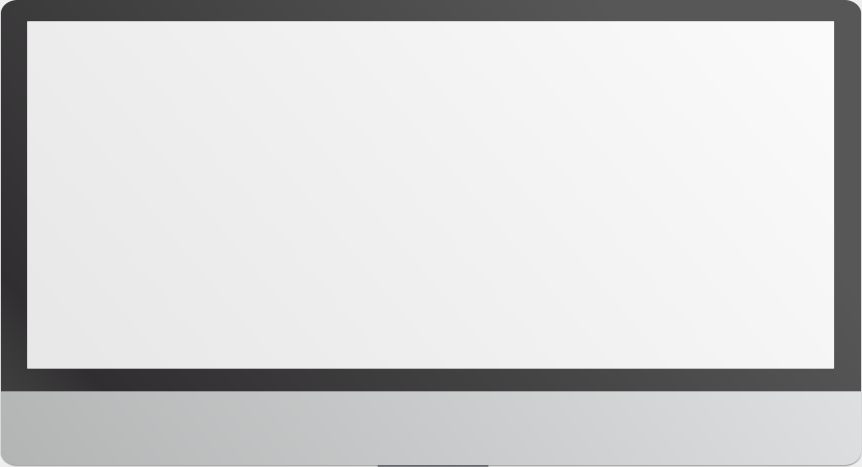
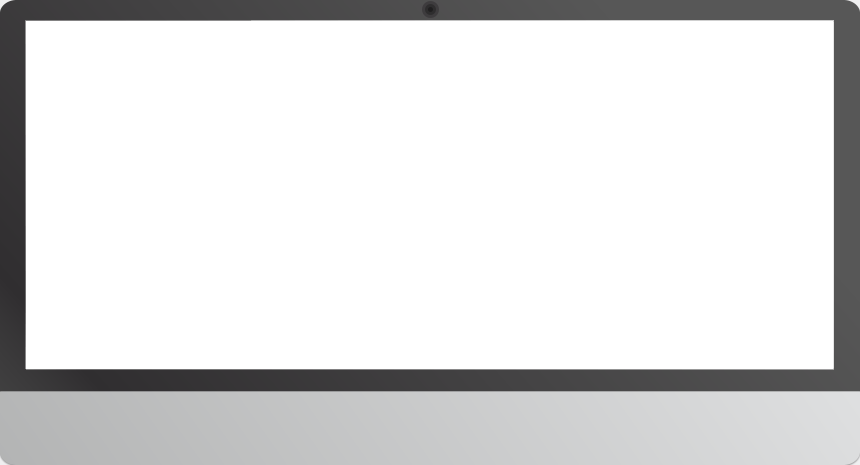
Screen image changed

diff --git a/Mind Booster/src/com/psychotechnology/GUI/Settings/SettingsPanel.java b/Mind Booster/src/com/psychotechnology/GUI/Settings/SettingsPanel.java
@@ -10,6 +10,7 @@ import java.io.File;
 
 import javax.swing.ImageIcon;
 import javax.swing.JLabel;
+import javax.swing.JLayeredPane;
 import javax.swing.JPanel;
 import javax.swing.JSlider;
 import javax.swing.event.ChangeEvent;
@@ -24,9 +25,11 @@ public class SettingsPanel extends JPanel implements ChangeListener {
 
 	private static final long serialVersionUID = -798661649041437371L;
 	private Controller controller;
+	private JLayeredPane screenContainer;
 	private JPanel screenPanel;
 	private PictureLabel screenLabel;
 	private PictureLabel standLabel;
+	private JPanel screenContent;
 	public static ImageIcon screen;
 	public static ImageIcon stand;
 	public static ImageIcon picture;
@@ -82,15 +85,32 @@ public class SettingsPanel extends JPanel implements ChangeListener {
 	 * This method initializes all Settings Panel components
 	 */
 	public void initComponents() {
+		screenContent = new JPanel();
+		screenContainer = new JLayeredPane();
+		
+		
 		screenPanel = new JPanel();
 		screen = IconFetch.getInstance().getIcon("/com/psychotechnology/images/screen.png");
-		screenLabel = new PictureLabel(screen);
-		screenPanel.setLayout(new BorderLayout());
-		screenPanel.add(screenLabel, BorderLayout.CENTER);
+		//screenPanel.setLayout(new BorderLayout());
+		//screenPanel.add(new PictureLabel(screen), BorderLayout.CENTER);
 		
-		topLeftMsg = IconFetch.getInstance().getIcon("/com/psychotechnology/images/placeholder.png");
-		topLeftMsgLabel = new PictureLabel(topLeftMsg);
-		screenPanel.add(topLeftMsgLabel, BorderLayout.NORTH);
+		ImageIcon messageOne = IconFetch.getInstance().getIcon("/com/psychotechnology/images/message_inactive.png");
+		JPanel messageOnePane = new JPanel();
+		JLabel messageOneLabel = new JLabel(messageOne);
+		//messageOnePane.setBounds(0, 0, 600, 400);
+		//messageOnePane.setLayout(new BorderLayout());
+
+		
+		screenContent.add(screenContainer, BorderLayout.CENTER);
+		screenContainer.setBounds(0, 0, 150, 300);
+		screenPanel.setBackground(Color.BLUE);
+		screenPanel.setBounds(0, 0, 150, 300);
+		screenPanel.setOpaque(true);
+		messageOnePane.setBackground(Color.GREEN);
+		messageOnePane.setBounds(50, 25, 25, 25	);
+		messageOnePane.setOpaque(true);
+		screenContainer.add(screenPanel, new Integer(0), 0);
+		screenContainer.add(messageOnePane, new Integer(1), 0);
 		
 		standPanel = new JPanel();
 		stand = IconFetch.getInstance().getIcon("/com/psychotechnology/images/stand.png");
@@ -137,7 +157,7 @@ public class SettingsPanel extends JPanel implements ChangeListener {
 		gc.insets = new Insets(90, 0, 0, 30);
 		gc.anchor = GridBagConstraints.FIRST_LINE_START;
 		gc.fill = GridBagConstraints.BOTH;
-		add(screenPanel, gc); // add component to the ContentPane
+		add(screenContent, gc); // add component to the ContentPane
 		screenPanel.setBackground(Color.WHITE);
 		
 		gc.gridx = 0;
@@ -173,7 +193,7 @@ public class SettingsPanel extends JPanel implements ChangeListener {
 
 		durationSlider.setMajorTickSpacing(5000);
 		durationSlider.setPaintLabels(true);
-
+		
 		GridBagLayout gbl = new GridBagLayout();
 		GridBagConstraints gc = new GridBagConstraints();
 		gc.insets = new Insets(3, 10, 3, 10);
